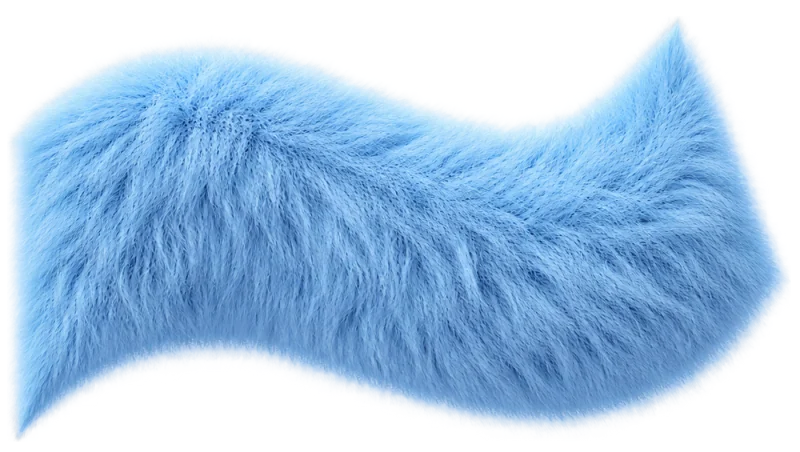
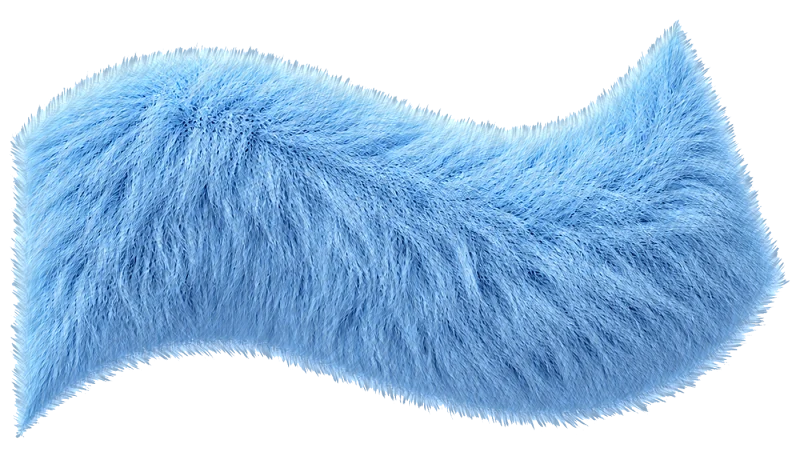
Kontakt-Tilde wechselt mit dem Material, Fell mit scharfen Haarspitzen und mehr Wind, Chrom mit Maus als Lichtquelle
Claude-Session: https://claude.ai/code/session_011ban5tjDbDLHDKRdEs5BL8

diff --git a/js/main.js b/js/main.js
@@ -544,11 +544,15 @@
 
   /* ---------- Hero: Ein Klick auf die Tilde wechselt das Material, die Akzentfarbe der Seite wechselt mit ----------
      Start ist immer Moos. Jeder Klick zieht zufällig ein anderes Material; erst wenn alle dran waren, wiederholt sich eines. */
-  /* Spielraum: Die Fläche unter der Kugel wechselt mit dem Material (Rasen bei Moos). Bilder laden erst, wenn sie gebraucht werden. */
-  var playSurf = (function () {
-    var media = $('#play-media'), els = {}, cur = null, timer = 0;
-    if (!media) return function () {};
-    Array.prototype.forEach.call(media.querySelectorAll('.play__surf'), function (el) { els[el.getAttribute('data-m')] = el; });
+  /* Bilder, die mit dem Material der Tilde wechseln: Das neue blendet über dem alten ein, erst danach verschwindet das alte.
+     Bilder mit data-src laden erst, wenn sie gebraucht werden. Gibt es für ein Material kein Bild, bleibt der Grund darunter sichtbar. */
+  function matSwap(box, sel) {
+    var els = {}, cur = null, timer = 0;
+    if (!box) return function () {};
+    Array.prototype.forEach.call(box.querySelectorAll(sel), function (el) {
+      els[el.getAttribute('data-m')] = el;
+      if (el.classList.contains('is-on')) cur = el;
+    });
     return function (m) {
       var next = els[m] || null, old = cur, k;
       if (next === cur) return;
@@ -556,7 +560,10 @@
       for (k in els) if (els[k] !== next && els[k] !== cur) els[k].classList.remove('is-on', 'is-top');
       cur = next;
       if (next) {
-        if (!next.getAttribute('src')) { next.srcset = next.getAttribute('data-srcset'); next.src = next.getAttribute('data-src'); }
+        if (!next.getAttribute('src')) {
+          if (next.getAttribute('data-srcset')) next.srcset = next.getAttribute('data-srcset');
+          next.src = next.getAttribute('data-src');
+        }
         if (old) old.classList.remove('is-top');
         next.classList.add('is-top');
         var show = function () { if (cur === next) next.classList.add('is-on'); };
@@ -566,7 +573,10 @@
         old.classList.add('is-top'); old.classList.remove('is-on');
       }
     };
-  })();
+  }
+  /* Spielraum: die Fläche unter der Kugel (Rasen bei Moos). Kontakt: die Tilde über der Kontakt-Box. */
+  var playSurf = matSwap($('#play-media'), '.play__surf');
+  var contactTilde = matSwap($('.contact__moss'), 'img');
   var MAT_NAME = { moos: 'Moos', gold: 'Gold', fell: 'Hellblaues Fell', chrom: 'Flüssiges Chrom' };
   var heroMat = { cur: 'moos', gl: null, busy: false, queued: false, fast: false, done: null };
   (function () {
@@ -600,6 +610,7 @@
         alt.src = 'assets/img/' + m + '-tilde-800.webp';
       }
       playSurf(m);
+      contactTilde(m);
       if (heroMat.gl) heroMat.gl(prev, m);
     }
     heroMat.done = function () {
@@ -614,8 +625,8 @@
 
   /* ---------- Hero: die Tilde als kleine Grafikkarten-Routine ----------
      Der Schatten ist ein eigenes, festes Bild. Im Ruhezustand lebt jedes Material auf seine Art:
-     Im Moos zieht Wind in Wellen durch die Büschel, das Fell wiegt sich sanft, über das Gold läuft ein Lichtstreif,
-     im Chrom wandert die Spiegelung. Beim Wechsel hat jedes Material seine eigene Verwandlung:
+     Im Moos zieht Wind in Wellen durch die Büschel, durch das Fell geht derselbe Wind und lässt vor allem die Spitzen am Rand wehen, über das Gold läuft ein Lichtstreif,
+     das Chrom steht still und spiegelt das Licht des Mauszeigers. Beim Wechsel hat jedes Material seine eigene Verwandlung:
      Gold drückt sich heraus, Moos wächst in Inseln zu, Fell wächst Strähne für Strähne, Chrom läuft als Flüssigkeit darüber.
      Licht kommt dabei immer von links oben. Ohne WebGL bleibt das Standbild stehen. */
   (function () {
@@ -633,7 +644,7 @@
       var FS = [
         /* s: Material A (das bisherige), g: Material B (das neue). ma/mb: 0 Moos, 1 Gold, 2 Fell, 3 Chrom.
            md: 0 A reißt auf und B drückt sich heraus · 1 dasselbe rückwärts (B wächst über A zu) · 2 Fell wächst · 3 Chrom fließt */
-        'precision highp float;varying vec2 v;uniform sampler2D s;uniform sampler2D g;uniform float t;uniform float u;uniform float gt;uniform float ma;uniform float mb;uniform float md;',
+        'precision highp float;varying vec2 v;uniform sampler2D s;uniform sampler2D g;uniform float t;uniform float u;uniform float gt;uniform float ma;uniform float mb;uniform float md;uniform sampler2D nm;uniform vec3 lp;',
         'const vec2 R=vec2(1185.,670.);const float T=6.2831853;',
         'vec2 gD;float gLean;float gFl;float gGust;',
         'vec4 tx(float w,vec2 c){return w<.5?texture2D(s,c):texture2D(g,c);}',
@@ -647,20 +658,36 @@
            sc: Größe um die Mitte, boost: verstärkt die Eigenbewegung, sk: Anteil des Lichtstreifs (nur Gold) */
         'vec4 layer(float w,float m,vec2 off,float sc,float boost,float sk){',
         ' vec2 c=(v-.5)/sc+.5;',
-        ' float ws=m<.5?1.:(abs(m-2.)<.5?.4*(1.+boost):0.);',
+        ' float ws=m<.5?1.:(abs(m-2.)<.5?.75*(1.+.45*boost):0.);',
         ' float wg=0.;vec2 d=off;',
         ' if(ws>0.){',
         '  float e=min(min(tx(w,c+vec2(14.,0.)/R).a,tx(w,c+vec2(-14.,0.)/R).a),min(tx(w,c+vec2(0.,14.)/R).a,tx(w,c+vec2(0.,-14.)/R).a));',
-        '  wg=mix(.5,1.,e)*ws;d+=gD*wg;',
+        /* Moos bewegt sich am Rand weniger, beim Fell wehen gerade die Spitzen am Rand */
+        '  wg=(m<.5?mix(.5,1.,e):mix(1.6,.85,e))*ws;d+=gD*wg;',
         ' }',
         ' vec2 o=d/R;o.y=-o.y;',
         ' vec2 cc=c-o;',
         ' vec4 px;',
         ' if(abs(m-3.)<.5){',
         /* Chrom: die Spiegelung wandert langsam, der Umriss bleibt fest */
-        '  float fa=.0032*(1.+boost);',
+        /* Chrom steht still und antwortet auf das Licht: Der Mauszeiger ist eine Lichtquelle über der Fläche (lp).
+           nm ist das Relief der Tilde. Das Licht spiegelt sich als helle Fläche und als Glanzpunkt in den Falten,
+           die dem Licht abgewandten Flanken werden dunkler, und die Spiegelung in den Schrägen wandert mit.
+           Nur direkt nach dem Darüberfließen schwappt die Spiegelung noch kurz nach (boost). */
+        '  float fa=.0032*boost;',
         '  vec2 fw=fa*vec2(sin(T*(c.y*2.1+t*.055)+3.*c.x),cos(T*(c.x*1.6-t*.045)+2.*c.y));',
-        '  px=tx(w,cc+fw);px.a=tx(w,cc).a;',
+        '  vec3 nn=texture2D(nm,cc).rgb;',
+        '  vec3 N=normalize(vec3((nn.r-.5)*2.,-(nn.g-.5)*2.,max(nn.b,.06)));',
+        '  vec2 asp=vec2(R.x/R.y,1.);',
+        '  vec3 lv=vec3((lp.xy-c)*asp,.34);float ld=length(lv.xy);vec3 l=normalize(lv);',
+        '  float att=1./(1.+ld*ld*1.6);',
+        '  float ndh=max(dot(N,normalize(l+vec3(0.,0.,1.))),0.);',
+        '  float lit=dot(N,l);',
+        /* vier Abtastpunkte je Bildpunkt: Das große Bild wird sauber verkleinert, harte Kanten bleiben glatt */
+        '  vec2 cs=cc+fw-l.xy/asp*(1.-N.z)*.018*lp.z;vec2 po=.3/R;',
+        '  px=.25*(tx(w,cs+po)+tx(w,cs-po)+tx(w,cs+vec2(po.x,-po.y))+tx(w,cs+vec2(-po.x,po.y)));px.a=tx(w,cc).a;',
+        '  px.rgb*=mix(1.,mix(.6,1.1,smoothstep(-.3,.7,lit)),lp.z*(.35+.65*att));',
+        '  px.rgb+=vec3(1.)*(smoothstep(.925,.975,ndh)*.5+pow(ndh,140.)*.8)*att*lp.z;',
         ' }else{px=tx(w,cc);}',
         ' px.rgb*=1.+.1*(gLean-.36)*wg+.03*gFl*wg*gGust;',
         ' if(abs(m-1.)<.5&&sk>0.){',
@@ -776,7 +803,7 @@
       var texs = {}, ready = {};
       function upload(name, source) {
         var tex = gl.createTexture();
-        gl.activeTexture(gl.TEXTURE2);
+        gl.activeTexture(gl.TEXTURE3);
         gl.bindTexture(gl.TEXTURE_2D, tex);
         gl.texImage2D(gl.TEXTURE_2D, 0, gl.RGBA, gl.RGBA, gl.UNSIGNED_BYTE, source);
         gl.texParameteri(gl.TEXTURE_2D, gl.TEXTURE_MIN_FILTER, gl.LINEAR);
@@ -796,6 +823,29 @@
       var uMa = gl.getUniformLocation(pr, 'ma'), uMb = gl.getUniformLocation(pr, 'mb'), uMd = gl.getUniformLocation(pr, 'md');
       gl.uniform1i(gl.getUniformLocation(pr, 's'), 0);
       gl.uniform1i(gl.getUniformLocation(pr, 'g'), 1);
+      /* Relief der Chrom-Tilde (Platz 2). Bis es geladen ist, gilt eine glatte Fläche. */
+      gl.uniform1i(gl.getUniformLocation(pr, 'nm'), 2);
+      var uLp = gl.getUniformLocation(pr, 'lp'), nmTex = gl.createTexture();
+      function nmSet(source) {
+        gl.activeTexture(gl.TEXTURE2);
+        gl.bindTexture(gl.TEXTURE_2D, nmTex);
+        if (source) gl.texImage2D(gl.TEXTURE_2D, 0, gl.RGB, gl.RGB, gl.UNSIGNED_BYTE, source);
+        else gl.texImage2D(gl.TEXTURE_2D, 0, gl.RGB, 1, 1, 0, gl.RGB, gl.UNSIGNED_BYTE, new Uint8Array([128, 128, 255]));
+        gl.texParameteri(gl.TEXTURE_2D, gl.TEXTURE_MIN_FILTER, gl.LINEAR);
+        gl.texParameteri(gl.TEXTURE_2D, gl.TEXTURE_MAG_FILTER, gl.LINEAR);
+        gl.texParameteri(gl.TEXTURE_2D, gl.TEXTURE_WRAP_S, gl.CLAMP_TO_EDGE);
+        gl.texParameteri(gl.TEXTURE_2D, gl.TEXTURE_WRAP_T, gl.CLAMP_TO_EDGE);
+        gl.activeTexture(gl.TEXTURE0);
+      }
+      nmSet(null);
+      /* Licht über dem Chrom: folgt dem Mauszeiger. Ohne Maus (Handy) oder wenn sie länger ruht, wandert es langsam von selbst. */
+      var lx = 0.3, ly = 0.8, la = 0, mX = 0, mY = 0, mAt = -1e9, mDirty = false, cRect = null;
+      if (finePointer) window.addEventListener('pointermove', function (e) {
+        if (e.pointerType && e.pointerType !== 'mouse') return;
+        mX = e.clientX; mY = e.clientY; mAt = performance.now(); mDirty = true;
+      }, { passive: true });
+      window.addEventListener('scroll', function () { cRect = null; }, { passive: true });
+      window.addEventListener('resize', function () { cRect = null; }, { passive: true });
       bind(0, 'moos'); bind(1, 'moos');
       gl.uniform1f(uMa, 0); gl.uniform1f(uMb, 0); gl.uniform1f(uMd, 0);
       /* Verwandlung von A nach B; rp läuft von 0 bis 1 */
@@ -834,7 +884,15 @@
           if (pend && pend[1] === name) { pend = null; heroMat.busy = false; heroMat.queued = false; }
           loadNext();
         };
-        im.src = base.replace('moos-tilde', name + '-tilde');
+        var src = base.replace('moos-tilde', name + '-tilde');
+        /* Chrom hat harte Kanten: auf großen Bildschirmen immer das große Bild, sonst wirkt es weich */
+        if (name === 'chrom' && img.clientWidth * (window.devicePixelRatio || 1) > 560) src = src.replace('-tilde-800', '-tilde');
+        if (name === 'chrom') {
+          var nmImg = new Image();
+          nmImg.onload = function () { try { nmSet(nmImg); } catch (err) {} };
+          nmImg.src = src.replace(/chrom-tilde(-800)?/, 'chrom-normal');
+        }
+        im.src = src;
       }
       loadNext();
       function size() {
@@ -860,6 +918,19 @@
         }
         gl.uniform1f(uU, uNow);
         gl.uniform1f(uGt, (now - since) / 1000);
+        if (A === 'chrom' || (running && B === 'chrom')) {
+          var tx_, ty_, sec = now / 1000;
+          if (now - mAt < 5000) {
+            if (mDirty || !cRect) { if (!cRect) cRect = c.getBoundingClientRect(); mDirty = false; }
+            tx_ = Math.max(-0.8, Math.min(1.8, (mX - cRect.left) / (cRect.width || 1)));
+            ty_ = Math.max(-0.8, Math.min(1.8, 1 - (mY - cRect.top) / (cRect.height || 1)));
+          } else {
+            tx_ = 0.5 + 0.4 * Math.sin(sec * 0.33); ty_ = 0.6 + 0.22 * Math.sin(sec * 0.21 + 1.2);
+          }
+          var lk = Math.min(1, dt / 1000 * (now - mAt < 5000 ? 9 : 1.5));
+          lx += (tx_ - lx) * lk; ly += (ty_ - ly) * lk; la += (1 - la) * Math.min(1, dt / 1000 * 2.5);
+          gl.uniform3f(uLp, lx, ly, la);
+        } else if (la) { la = 0; gl.uniform3f(uLp, lx, ly, 0); }
         gl.drawArrays(gl.TRIANGLE_STRIP, 0, 4);
         if (!live) { live = true; img.classList.add('is-live'); if (altEl) altEl.classList.add('is-live'); }
       }

diff --git a/index.html b/index.html
@@ -413,7 +413,7 @@
 <section class="section kontakt" id="kontakt">
   <div class="wrap">
     <div class="contact" data-reveal>
-      <div class="contact__moss" aria-hidden="true"><img src="assets/img/moos-tilde-800.webp" width="800" height="452" alt="" loading="lazy" decoding="async"></div>
+      <div class="contact__moss" aria-hidden="true"><img class="is-on is-top" data-m="moos" src="assets/img/moos-tilde-800.webp" width="800" height="452" alt="" loading="lazy" decoding="async"><img data-m="gold" data-src="assets/img/gold-tilde-800.webp" width="800" height="452" alt="" decoding="async"><img data-m="fell" data-src="assets/img/fell-tilde-800.webp" width="800" height="452" alt="" decoding="async"><img data-m="chrom" data-src="assets/img/chrom-tilde-800.webp" width="800" height="452" alt="" decoding="async"></div>
       <div>
         <p class="mono eyebrow">11<span class="eyebrow__sep">~</span>Kontakt</p>
         <h2 class="h3">Was liegt unter <br>deiner <em class="serif">Oberfläche</em>?</h2>

diff --git a/css/style.css b/css/style.css
@@ -794,6 +794,11 @@ html.is-gold .header .logoimg__i,html:not(.is-gold) .header .logoimg__i{transiti
 .play__surf.is-top{z-index:1}
 .play__ball{z-index:2}
 @media (prefers-reduced-motion:reduce){.play__surf{transition:none}}
+/* Kontakt: Die Tilde zeigt dasselbe Material wie die Tilde im Hero. Das neue Bild blendet über dem alten ein. */
+.contact__moss img{position:absolute;inset:0;opacity:0;transition:opacity 1.4s var(--ease)}
+.contact__moss img.is-on{opacity:1}
+.contact__moss img.is-top{z-index:1}
+@media (prefers-reduced-motion:reduce){.contact__moss img{transition:none}}
 .play.is-ball{cursor:pointer}
 .play.is-ball{cursor:grab}
 .play.is-grab,.play.is-grab *{cursor:grabbing;user-select:none;-webkit-user-select:none}
